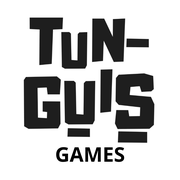
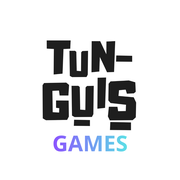
Nuevo icono de la app (GAMES.png) + icono maskable con margen de seguridad

diff --git a/sw.js b/sw.js
@@ -1,4 +1,4 @@
-const VERSION = "tunguis-v9";
+const VERSION = "tunguis-v10";
 const SHELL = [
   "./",
   "./index.html",
@@ -12,6 +12,7 @@ const SHELL = [
   "./manifest.webmanifest",
   "./icons/icon-192.png",
   "./icons/icon-512.png",
+  "./icons/icon-maskable-512.png",
   "./apple-touch-icon.png",
   "./img/firered.svg",
   "./img/leafgreen.svg",
